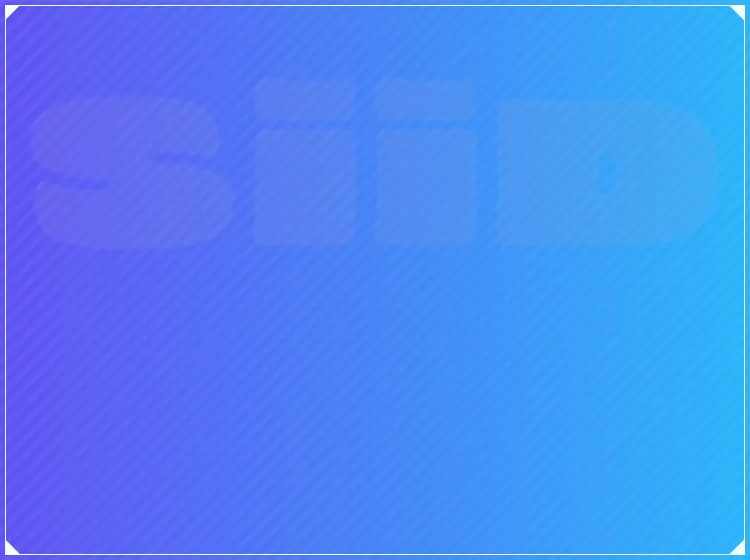
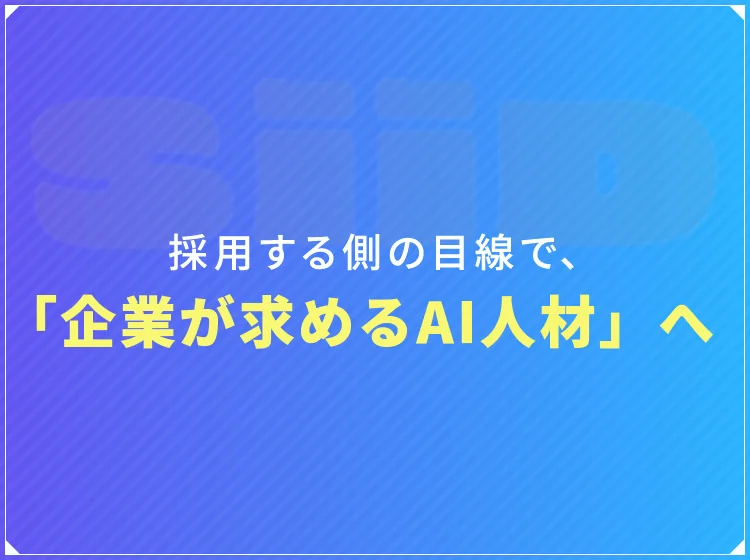
fix(lp-2): ABOUT の枠とロゴ透かしをカンプの書き出しに置き換える (#65)
構造 80.5 → 81.5 / 色 73.8 → 84.0。

グラデーション背景・ロゴ透かし・角飾り付きの枠を CSS で描き直していたのをやめ、
カンプの書き出しを敷いて文字だけを重ねる構成にした。SP 用も別に書き出している。

Claude-Session: https://claude.ai/code/session_01LPVu6oL53Z3okrHuotdxHd

Changed region(s): [[0.0307, 0.5161, 0.828, 0.6375], [0.2147, 0.3946, 0.7667, 0.4857], [0.8587, 0.5464, 0.9507, 0.6071]]

diff --git a/src/components/Lp2/About/About.module.css b/src/components/Lp2/About/About.module.css
@@ -9,60 +9,20 @@
   overflow: hidden;
   min-height: 280px;
   padding: 2px;
-  background:
-    /* カンプに入っている細い斜めストライプ(コントラストは 3% 程度) */
-    repeating-linear-gradient(
-      -45deg,
-      rgba(255, 255, 255, 0.035) 0 2px,
-      rgba(255, 255, 255, 0) 2px 6px
-    ),
-    linear-gradient(
-      90deg,
-      var(--lp2-about-from) 0%,
-      var(--lp2-about-mid) 50%,
-      var(--lp2-about-to) 100%
-    );
+  background: var(--lp2-about-from);
   text-align: center;
 }
 
-/* 背景の SiiD ロゴ透かし。PSD: PC 817x203 / SP 344x86 */
-.About__Watermark {
-  position: absolute;
-  top: 50%;
-  left: 50%;
-  width: 344px;
-  max-width: 92%;
-  height: auto;
-  opacity: 0.2;
-  transform: translate(-50%, -50%);
-  pointer-events: none;
-}
-
-/* 四隅に小さな四角が付いた枠 */
+/* 枠と四隅の飾りは背景画像側にあるため、ここでは文字の器としてだけ使う */
 .About__Frame {
   position: relative;
+  z-index: 1;
   display: flex;
   flex-direction: column;
   align-items: center;
   height: 277px;
   padding: 18px 12px;
-  border: 1px solid rgba(255, 255, 255, 0.9);
   color: var(--lp2-white);
-}
-
-.About__Frame::before {
-  content: '';
-  position: absolute;
-  inset: -1px;
-  pointer-events: none;
-  background-image:
-    linear-gradient(var(--lp2-white), var(--lp2-white)),
-    linear-gradient(var(--lp2-white), var(--lp2-white)),
-    linear-gradient(var(--lp2-white), var(--lp2-white)),
-    linear-gradient(var(--lp2-white), var(--lp2-white));
-  background-repeat: no-repeat;
-  background-size: 10px 9px;
-  background-position: 0 0, 100% 0, 0 100%, 100% 100%;
 }
 
 .About__Lead {
@@ -139,20 +99,11 @@
     padding: 14px 219px 19px;
   }
 
-  .About__Watermark {
-    width: 817px;
-    max-width: none;
-  }
-
   .About__Frame {
     height: 422px;
     /* PSD の縦位置(枠の上端 y796 基準):
        見出し y861 / 下線 y902 / サブ y939 / 大見出し y1002 / 白帯 y1114 */
     padding: 55px 8px 0;
-  }
-
-  .About__Frame::before {
-    background-size: 19px 20px;
   }
 
   .About__Lead {

diff --git a/src/components/Lp2/About/About.tsx b/src/components/Lp2/About/About.tsx
@@ -1,6 +1,4 @@
-import Image from 'next/image';
-
-import { LP2_IMAGE_QUALITY, lp2Asset } from '@/constants/lp2Assets';
+import SectionBg from '../SectionBg/SectionBg';
 
 import styles from './About.module.css';
 
@@ -11,14 +9,8 @@ import styles from './About.module.css';
 export default function About() {
   return (
     <section className={styles.About} id="about">
-      <Image
-        className={styles.About__Watermark}
-        src={lp2Asset('/images/lp-2/about-logo-watermark.webp')}
-        alt=""
-        width={817}
-        height={203}
-        quality={LP2_IMAGE_QUALITY}
-      />
+      {/* 背景のグラデーション・ロゴ透かし・角飾り付きの枠はカンプの書き出し */}
+      <SectionBg name="about" pcWidth={1440} pcHeight={456} spWidth={750} spHeight={560} />
 
       <div className={styles.About__Frame}>
         <p className={styles.About__Lead}>SiiDは、AIの技術だけを教えるスクールではありません</p>
